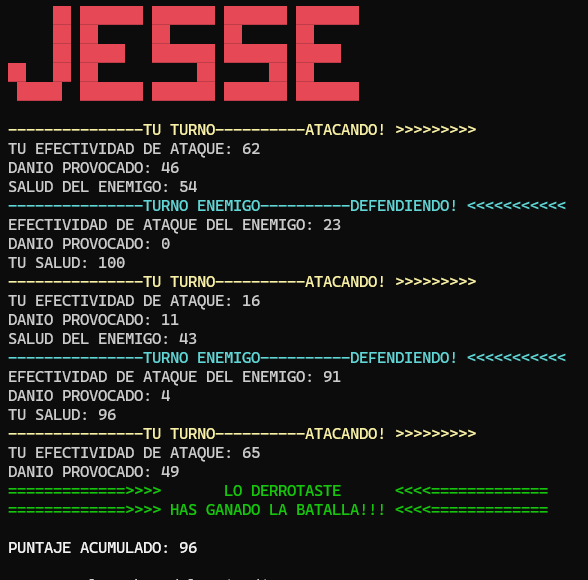
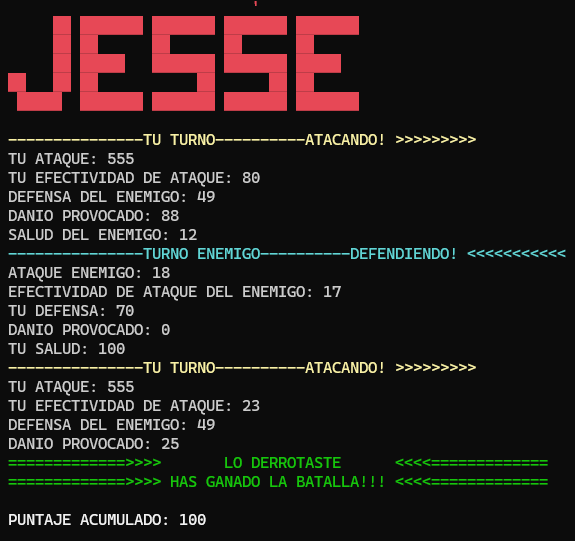
Edicion de Readme

diff --git a/Clases/Batalla.cs b/Clases/Batalla.cs
@@ -25,8 +25,10 @@ namespace EspacioBatalla
                     Console.ResetColor();
                     ataque = (jugador1.CaracteristicasPersonaje.Destreza) * (jugador1.CaracteristicasPersonaje.Fuerza) * (jugador1.CaracteristicasPersonaje.Nivel) + (int)bonificacion;
                     efectividad = FabricaDePersonjaes.ValorAleatorio(1, 101); //efectividad es aleatoria
+                    Console.WriteLine($"TU ATAQUE: {ataque}");
                     Console.WriteLine($"TU EFECTIVIDAD DE ATAQUE: {efectividad}");
                     defensa = (jugador2.CaracteristicasPersonaje.Armadura) * (jugador2.CaracteristicasPersonaje.Velocidad);
+                    Console.WriteLine($"DEFENSA DEL ENEMIGO: {defensa}");
                     danioProvocado = ((ataque * efectividad) - defensa) / ajuste;
                     jugador2.CaracteristicasPersonaje.Salud = (jugador2.CaracteristicasPersonaje.Salud) - danioProvocado;
                     Console.WriteLine($"DANIO PROVOCADO: {danioProvocado}");
@@ -50,8 +52,10 @@ namespace EspacioBatalla
                     Console.ResetColor();
                     ataque = (jugador2.CaracteristicasPersonaje.Destreza) * (jugador2.CaracteristicasPersonaje.Fuerza) * (jugador2.CaracteristicasPersonaje.Nivel);
                     efectividad = FabricaDePersonjaes.ValorAleatorio(1, 101);
+                    Console.WriteLine($"ATAQUE ENEMIGO: {ataque}");
                     Console.WriteLine($"EFECTIVIDAD DE ATAQUE DEL ENEMIGO: {efectividad} ");
                     defensa = (jugador1.CaracteristicasPersonaje.Armadura) * (jugador1.CaracteristicasPersonaje.Velocidad);
+                    Console.WriteLine($"TU DEFENSA: {defensa}");
                     danioProvocado = ((ataque * efectividad) - defensa) / ajuste;
                     jugador1.CaracteristicasPersonaje.Salud = (jugador1.CaracteristicasPersonaje.Salud) - danioProvocado;
                     Console.WriteLine($"DANIO PROVOCADO: {danioProvocado}");

diff --git a/Readme.md b/Readme.md
@@ -1,6 +1,6 @@
-# PROYECTO FINAL TALLER 1
+# PROYECTO FINAL DE TALLER DE LENGUAJES 1
 
-## NOMBRE DEL PROYECTO: Mini Juego de rol con C#
+## NOMBRE DEL PROYECTO: Mini Juego de rol con C# - TV WARS
 
 ### AUTOR: SANCHEZ LUIS HERNAN
 
@@ -14,9 +14,11 @@ El proyecto consiste en cumplir con los objetivos y rúbricas establecidos en la
 ### MODO DE JUEGO
 
 Al inicio se muestra un Menu para elegir personajes, una vez presionada la opcion, se mostrara una lista de los mismos para poder seleccionar el personaje con el cual se va a Jugar.
+
 ![Portada](Imagenes/Imagen1.png)
 
-Una vez elegido uno de los personajes, se continúa con la ejecución enfrentando a dicho personaje con los demás en la lista uno por uno. El jugador por cada batalla tiene la posibilidad de aumentar su ataque a traves de una bonificacion que se realiza al llamar a la API que proporciona un lista de episodios segun la serie del personaje, cada episodio posee un Rating, este mismo se duplica y se suma al ataque del jugador. Para ello se pregunta antes si el usuario desea ingresar los nombres de los episodios (favoreciendo al jugador al saber cuales episodios tuvieron mucho rating y cuales no) o si no los conoce se obtendra un episodio aleatorio de la lista.
+Una vez elegido uno de los personajes, se recorre el camino del torneo enfrentando a dicho personaje con los demás en la lista, uno vs uno. El jugador por cada batalla tiene la posibilidad de aumentar su ataque a traves de una bonificacion que se realiza al llamar a la API que proporciona un lista de episodios segun la serie del personaje, cada episodio posee un Rating, este mismo se duplica y se suma al ataque del jugador. Para ello se pregunta antes si el usuario desea ingresar los nombres de los episodios (favoreciendo al jugador al saber cuales episodios tuvieron mucho rating y cuales no) o si no los conoce se obtendra un episodio aleatorio de la lista.
+
 ![Portada](Imagenes/Imagen2.png)
 
 Cada ataque en la batalla se realiza por turnos en los cuales un personaje ataca y otro se defiende a través de cálculos matemáticos donde se tienen en cuenta las características de ambos personajes para calcular el daño provocado, hasta que uno pierde la salud completamente.
@@ -38,7 +40,19 @@ Los calculos son:
 ![Portada](Imagenes/Imagen3.png)
 
 
-Si el jugador gana, su salud es restaurada para comenzar nuevamente otra batalla y así hasta llegar al último personaje de la lista. Si este último contrincante es derrotado, se consagra al jugador como Ganador de la partida. Si pierde una batalla, pierde inmediatamente la partida. Si ha finalizado y ganado la partida, se calcula si el puntaje acumulado entra en la lista de historial de ganadores. Si es así, se pide el ingreso del nombre y se guarda en la lista.
+Si el jugador gana, su salud es restaurada para comenzar nuevamente otra batalla y así hasta llegar al último personaje de la lista.
+Cuando el personaje seleccionado derrota a todos los contrincantes de la lista, se corona como el ganador del "Trono de Hierro".
+
+En caso de haber alcanzado un puntaje que entre en el Historial de los mejores 10, se le pedira que ingrese un nombre para guardar en el ranking.
+
+![Portada](Imagenes/Imagen4.png)
+
+Si nuestro personaje a perdido una batalla, se pierde la partida, pero aun asi el juego continua con los personajes restantes en la lista, donde el enemigo que vencio a nuestro participante es el que sigue recorriendo el camino hasta alcanzar el "trono de hierro", si o si habra un ganador del torneo.
+
+![Portada](Imagenes/Imagen5.png)
+
+![Portada](Imagenes/Imagen6.png)
+
 
 
 ### USO DE LA API
@@ -47,6 +61,8 @@ Se seleccionó la API de la lista proporcionada en el repositorio GitHub: [Publi
 
 API proporcionada por el sitio TVMaze de información de series, películas, etc.
 - Sitio: [TVMaze API](https://www.tvmaze.com/api)
+
+![Portada](Imagenes/tvm_api.png)
 
 En este caso, el Endpoint utilizado es el que proporciona una lista de la información de los episodios de la serie obtenida primero con el endpoint para buscar la serie por el nombre, extrayendo el id:
 
